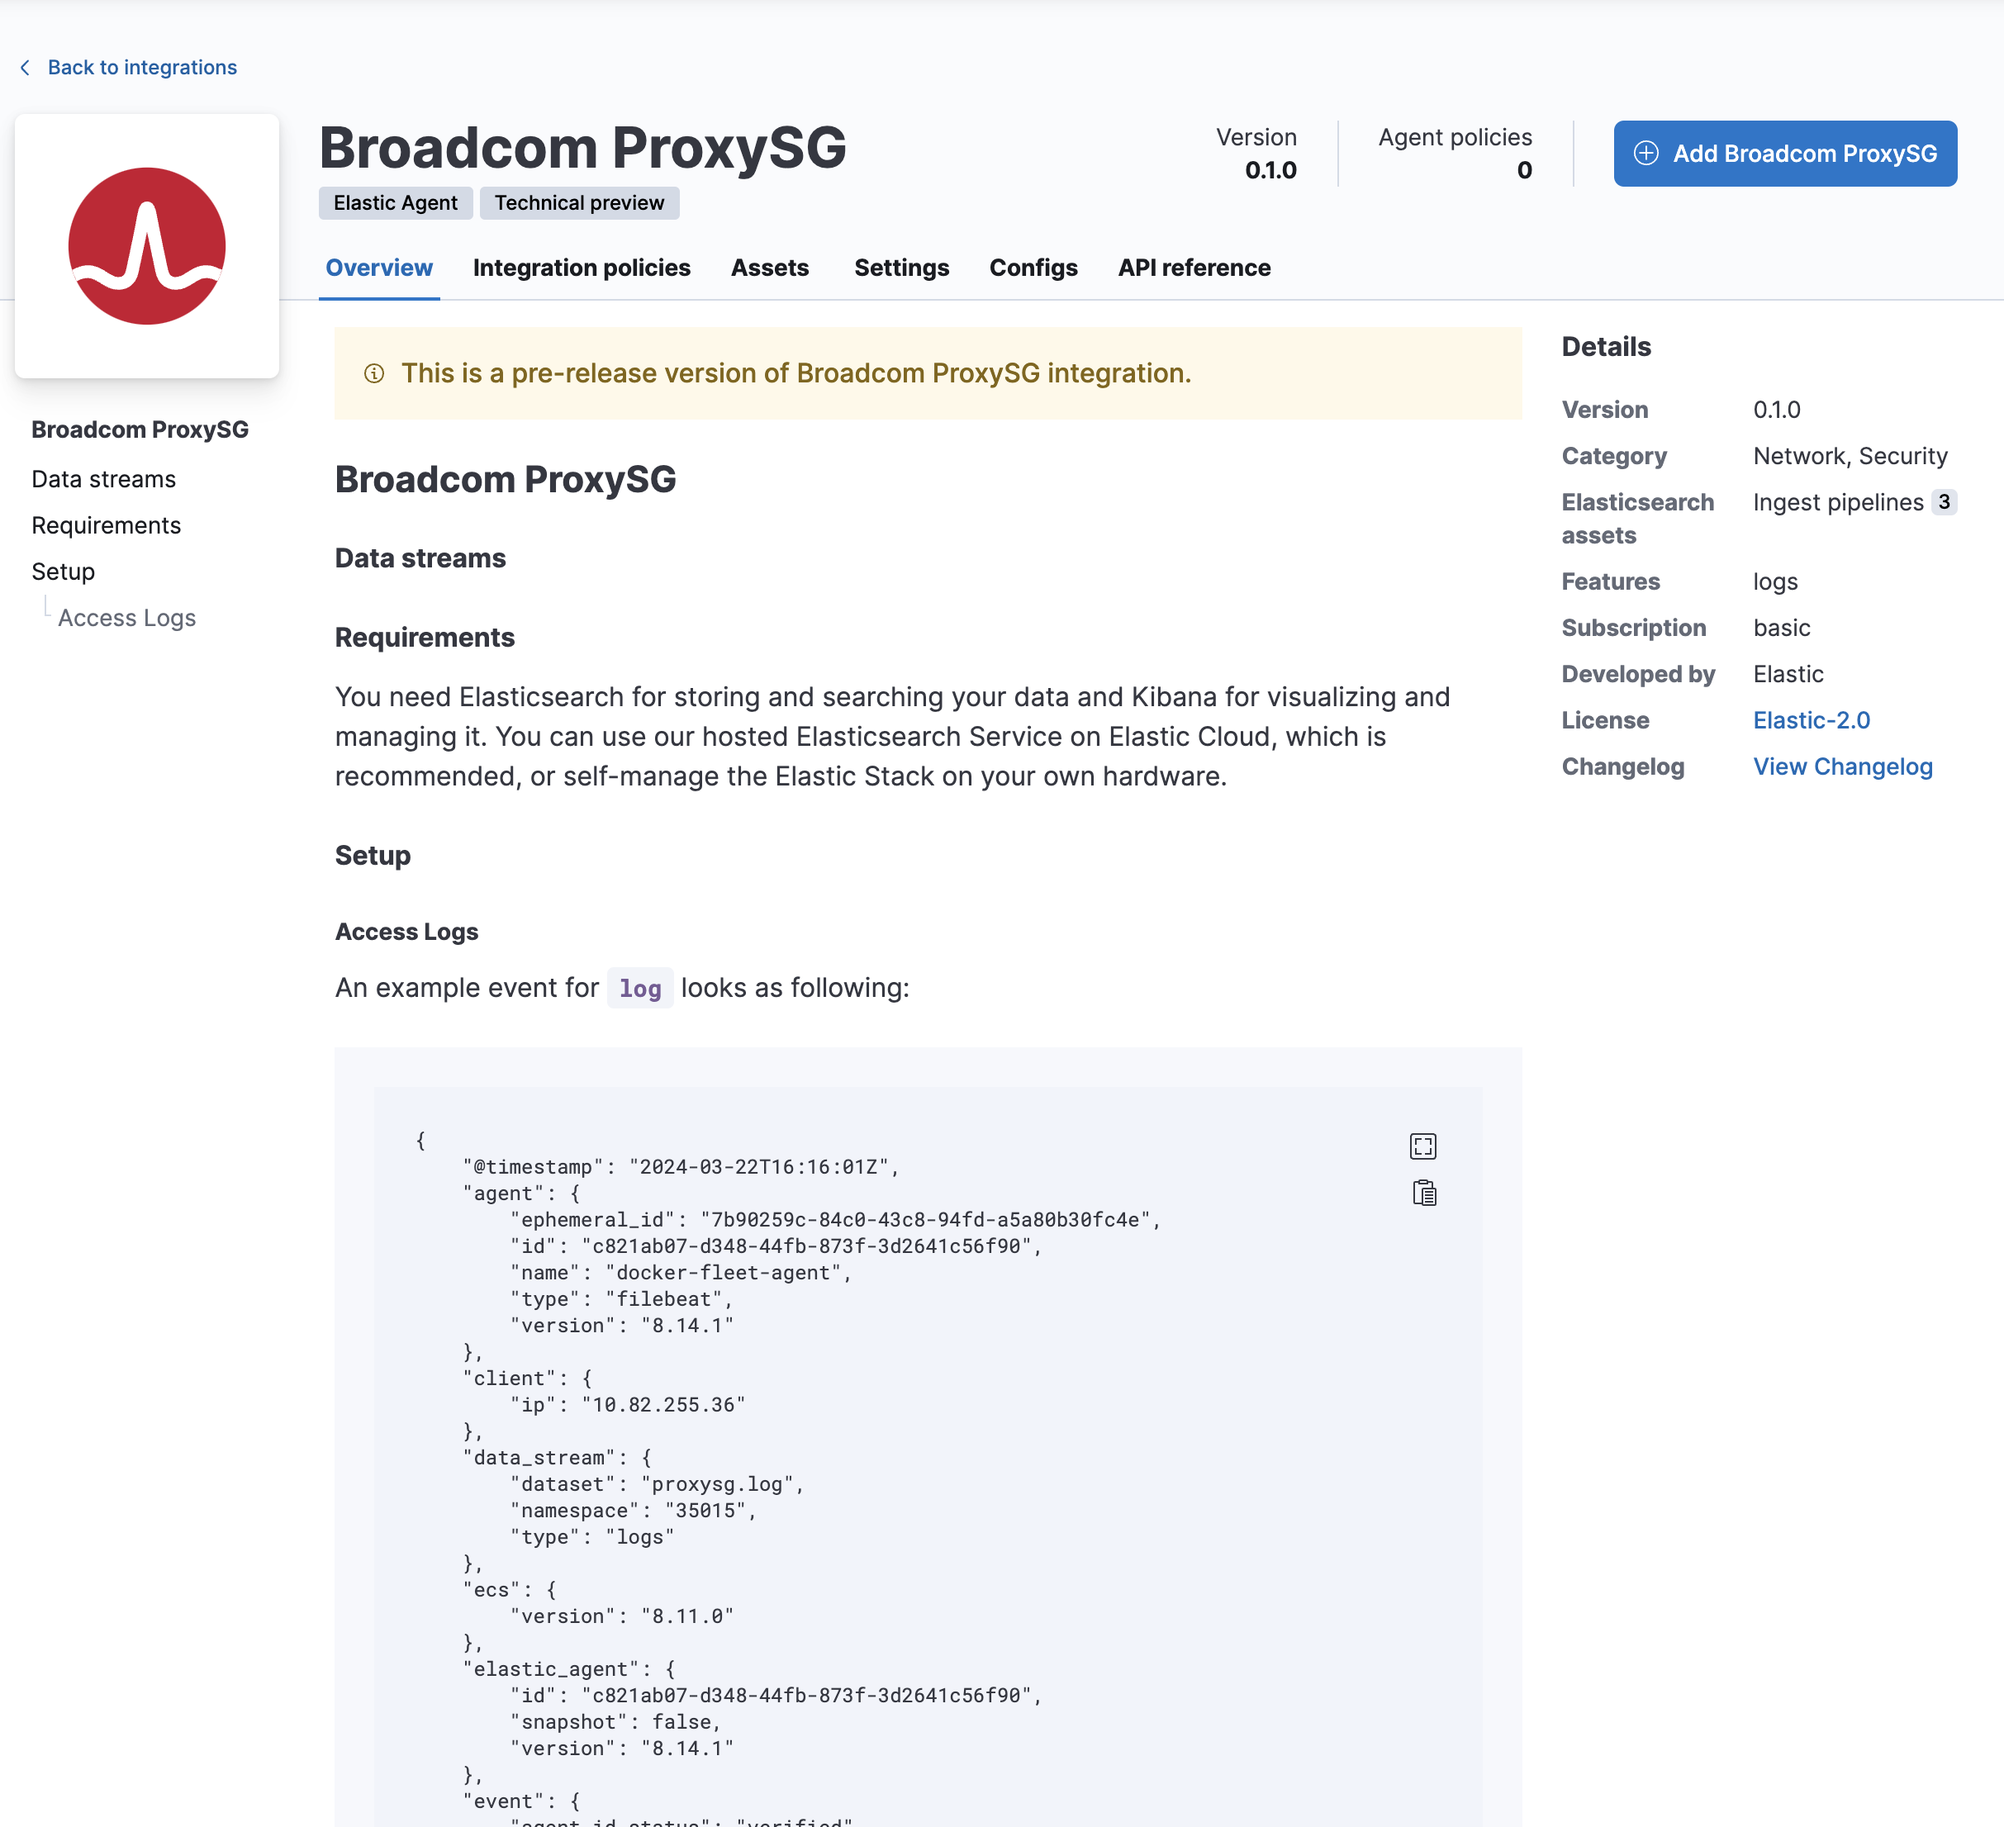
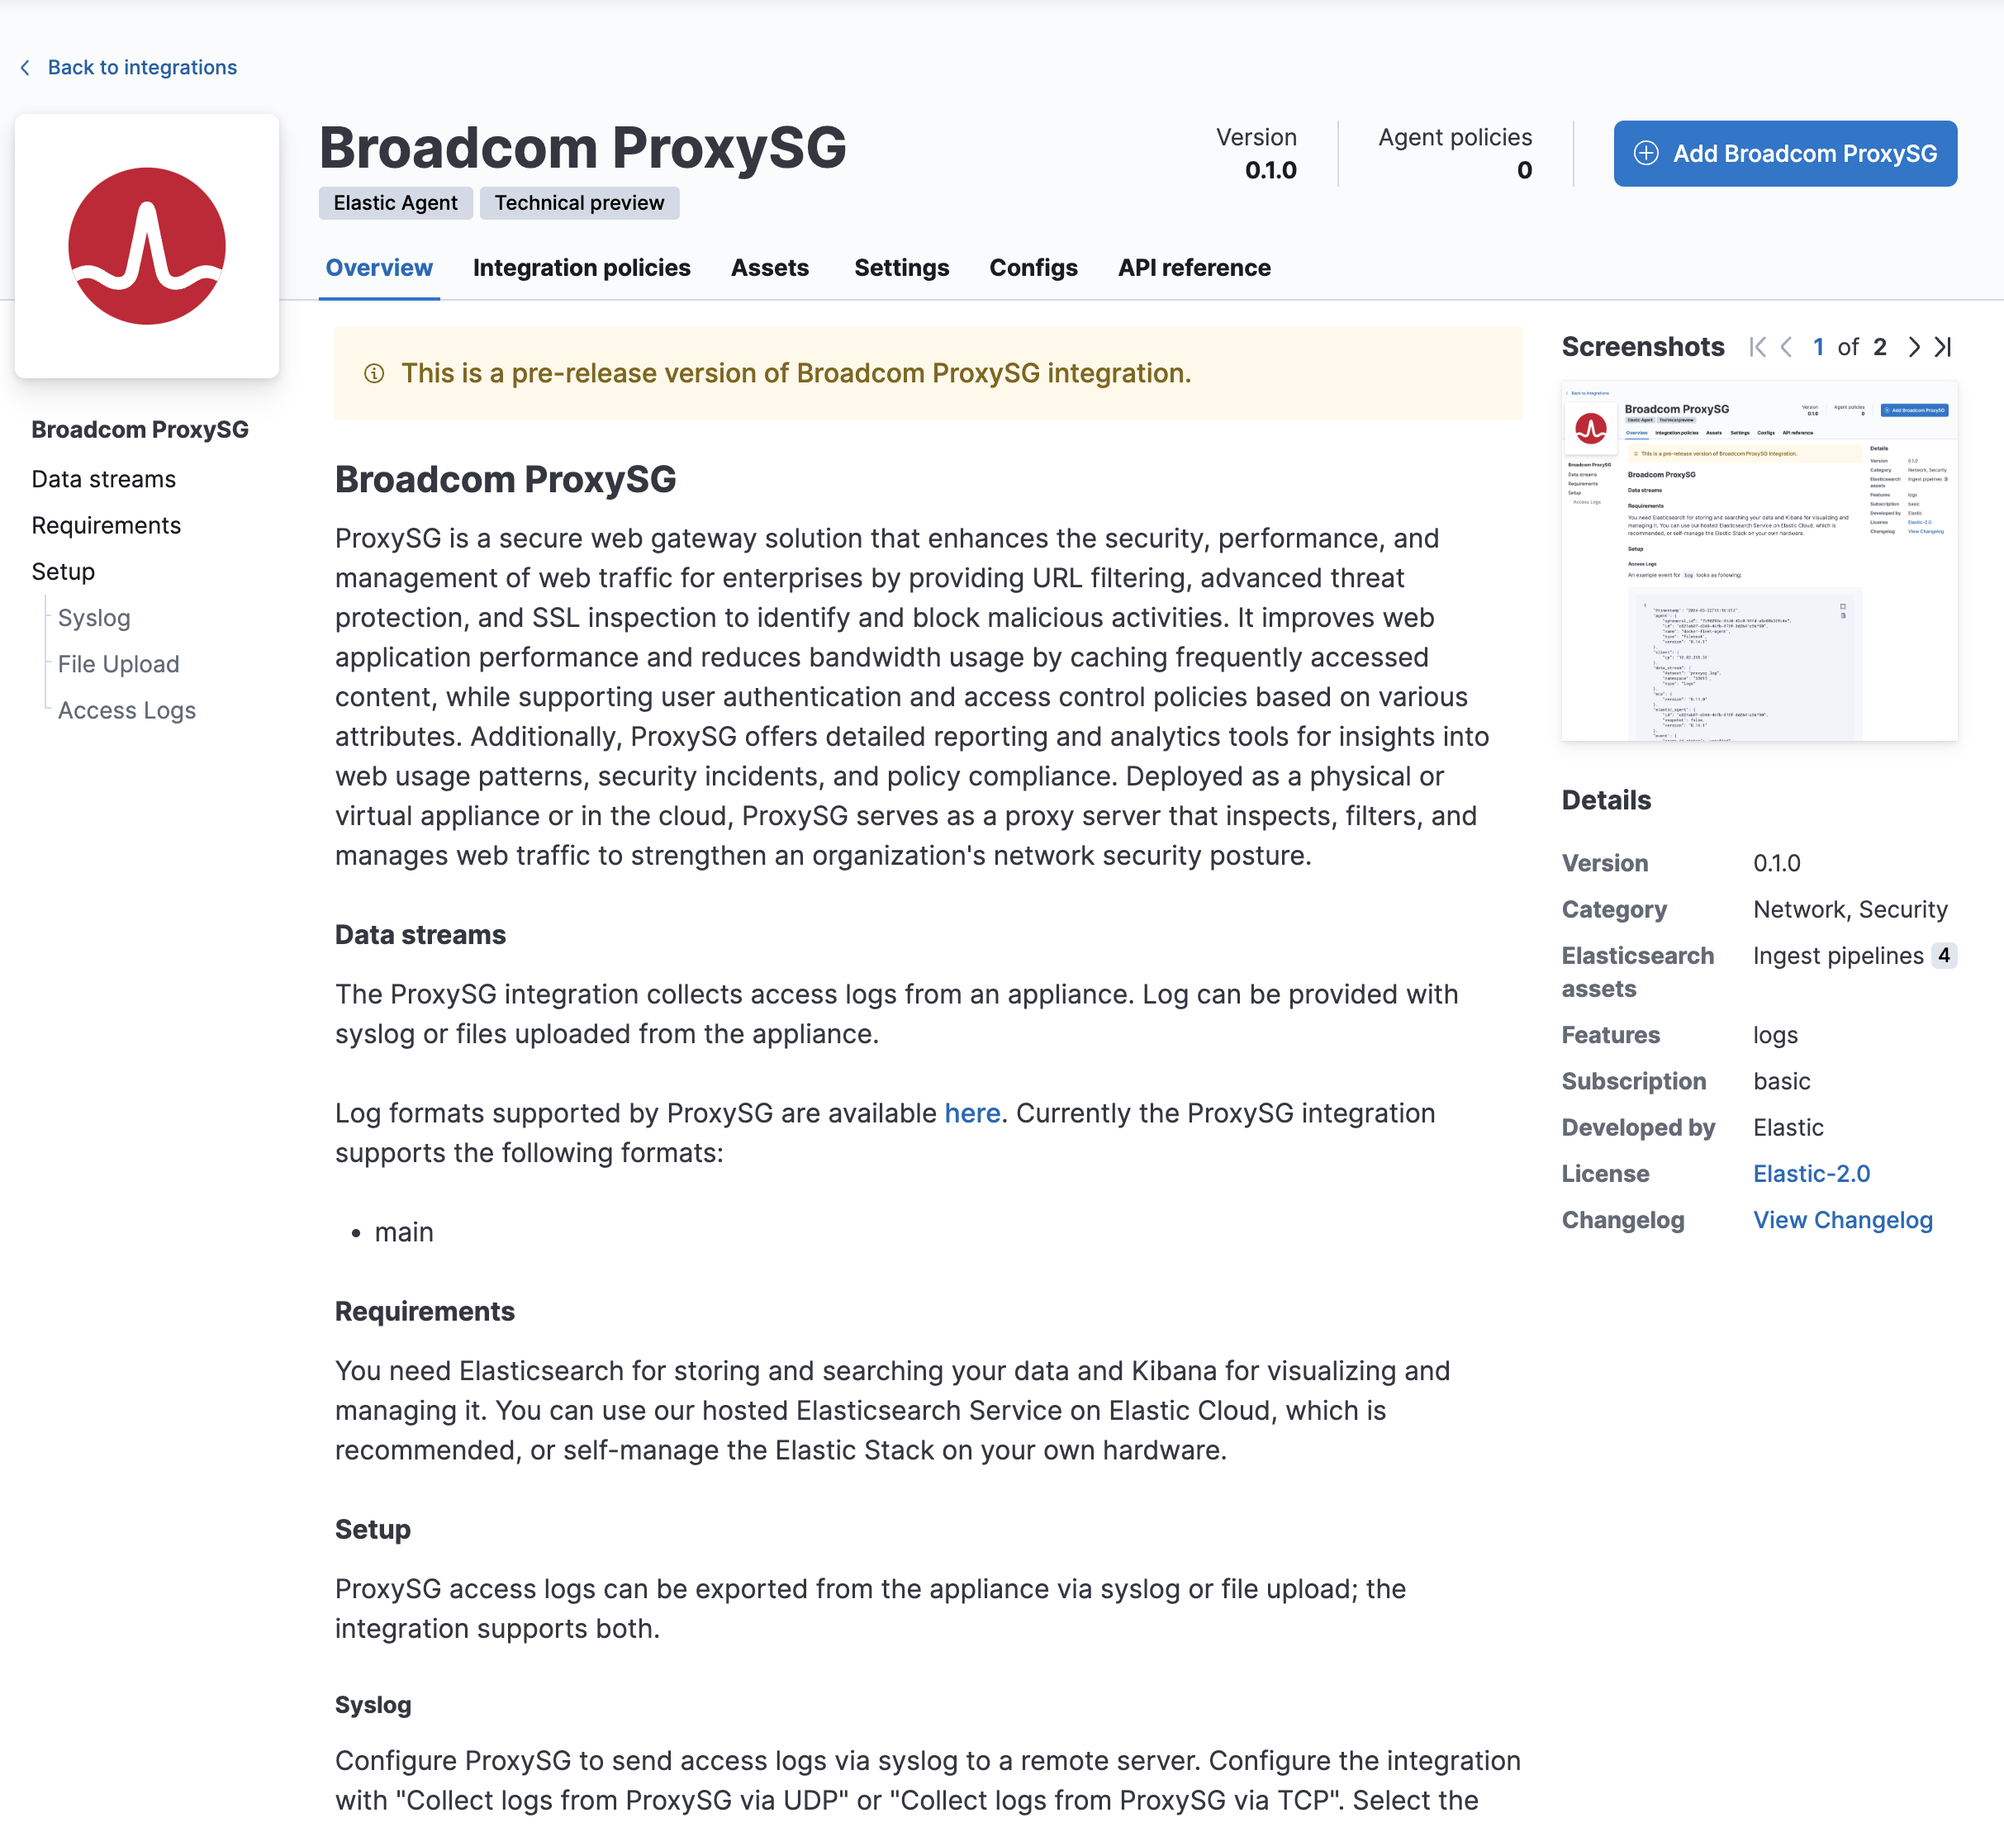
Update README

diff --git a/packages/proxysg/_dev/build/docs/README.md b/packages/proxysg/_dev/build/docs/README.md
@@ -1,11 +1,46 @@
 # Broadcom ProxySG
 
+ProxySG is a secure web gateway solution that enhances the security, performance, and management of web traffic for enterprises by providing URL
+filtering, advanced threat protection, and SSL inspection to identify and block malicious activities. It improves web application performance and
+reduces bandwidth usage by caching frequently accessed content, while supporting user authentication and access control policies based on various
+attributes. Additionally, ProxySG offers detailed reporting and analytics tools for insights into web usage patterns, security incidents, and policy
+compliance. Deployed as a physical or virtual appliance or in the cloud, ProxySG serves as a proxy server that inspects, filters, and manages web
+traffic to strengthen an organization's network security posture.
+
 ## Data streams
 
+The ProxySG integration collects access logs from an appliance. Log can be provided with syslog or files uploaded from the appliance.
+
+Log formats supported by ProxySG are available [here](https://techdocs.broadcom.com/us/en/symantec-security-software/web-and-network-security/edge-swg/7-3/getting-started/page-help-administration/page-help-logging/log-formats/default-formats.html).
+Currently the ProxySG integration supports the following formats:
+
+* main
+
 ## Requirements
-You need Elasticsearch for storing and searching your data and Kibana for visualizing and managing it. You can use our hosted Elasticsearch Service on Elastic Cloud, which is recommended, or self-manage the Elastic Stack on your own hardware.
+
+You need Elasticsearch for storing and searching your data and Kibana for visualizing and managing it.
+You can use our hosted Elasticsearch Service on Elastic Cloud, which is recommended, or self-manage the Elastic Stack on your own hardware.
 
 ## Setup
+
+ProxySG access logs can be exported from the appliance via syslog or file upload; the integration supports both.
+
+### Syslog
+
+Configure ProxySG to send access logs via syslog to a remote server.
+
+Add the integration, and configure it with "Collect logs from ProxySG via UDP" or "Collect logs from ProxySG via TCP".
+
+In advanced options, select the "Access Log Format" value that matches the configured appliance access log format. 
+
+### File Upload
+
+Configure ProxySG to upload access logs to a remove server on a schedule.
+
+Add the integration, and configure it with "Collect access logs from ProxySG via logging server file"
+
+In advanced options, set "Paths" to the file pattern that matches the location files will be uploaded to on the remote server.
+Select the "Access Log Format" value that matches the configured appliance access log format.
 
 ### Access Logs
 

diff --git a/packages/proxysg/docs/README.md b/packages/proxysg/docs/README.md
@@ -1,11 +1,46 @@
 # Broadcom ProxySG
 
+ProxySG is a secure web gateway solution that enhances the security, performance, and management of web traffic for enterprises by providing URL
+filtering, advanced threat protection, and SSL inspection to identify and block malicious activities. It improves web application performance and
+reduces bandwidth usage by caching frequently accessed content, while supporting user authentication and access control policies based on various
+attributes. Additionally, ProxySG offers detailed reporting and analytics tools for insights into web usage patterns, security incidents, and policy
+compliance. Deployed as a physical or virtual appliance or in the cloud, ProxySG serves as a proxy server that inspects, filters, and manages web
+traffic to strengthen an organization's network security posture.
+
 ## Data streams
 
+The ProxySG integration collects access logs from an appliance. Log can be provided with syslog or files uploaded from the appliance.
+
+Log formats supported by ProxySG are available [here](https://techdocs.broadcom.com/us/en/symantec-security-software/web-and-network-security/edge-swg/7-3/getting-started/page-help-administration/page-help-logging/log-formats/default-formats.html).
+Currently the ProxySG integration supports the following formats:
+
+* main
+
 ## Requirements
-You need Elasticsearch for storing and searching your data and Kibana for visualizing and managing it. You can use our hosted Elasticsearch Service on Elastic Cloud, which is recommended, or self-manage the Elastic Stack on your own hardware.
+
+You need Elasticsearch for storing and searching your data and Kibana for visualizing and managing it.
+You can use our hosted Elasticsearch Service on Elastic Cloud, which is recommended, or self-manage the Elastic Stack on your own hardware.
 
 ## Setup
+
+ProxySG access logs can be exported from the appliance via syslog or file upload; the integration supports both.
+
+### Syslog
+
+Configure ProxySG to send access logs via syslog to a remote server.
+
+Add the integration, and configure it with "Collect logs from ProxySG via UDP" or "Collect logs from ProxySG via TCP".
+
+In advanced options, select the "Access Log Format" value that matches the configured appliance access log format. 
+
+### File Upload
+
+Configure ProxySG to upload access logs to a remove server on a schedule.
+
+Add the integration, and configure it with "Collect access logs from ProxySG via logging server file"
+
+In advanced options, set "Paths" to the file pattern that matches the location files will be uploaded to on the remote server.
+Select the "Access Log Format" value that matches the configured appliance access log format.
 
 ### Access Logs
 
